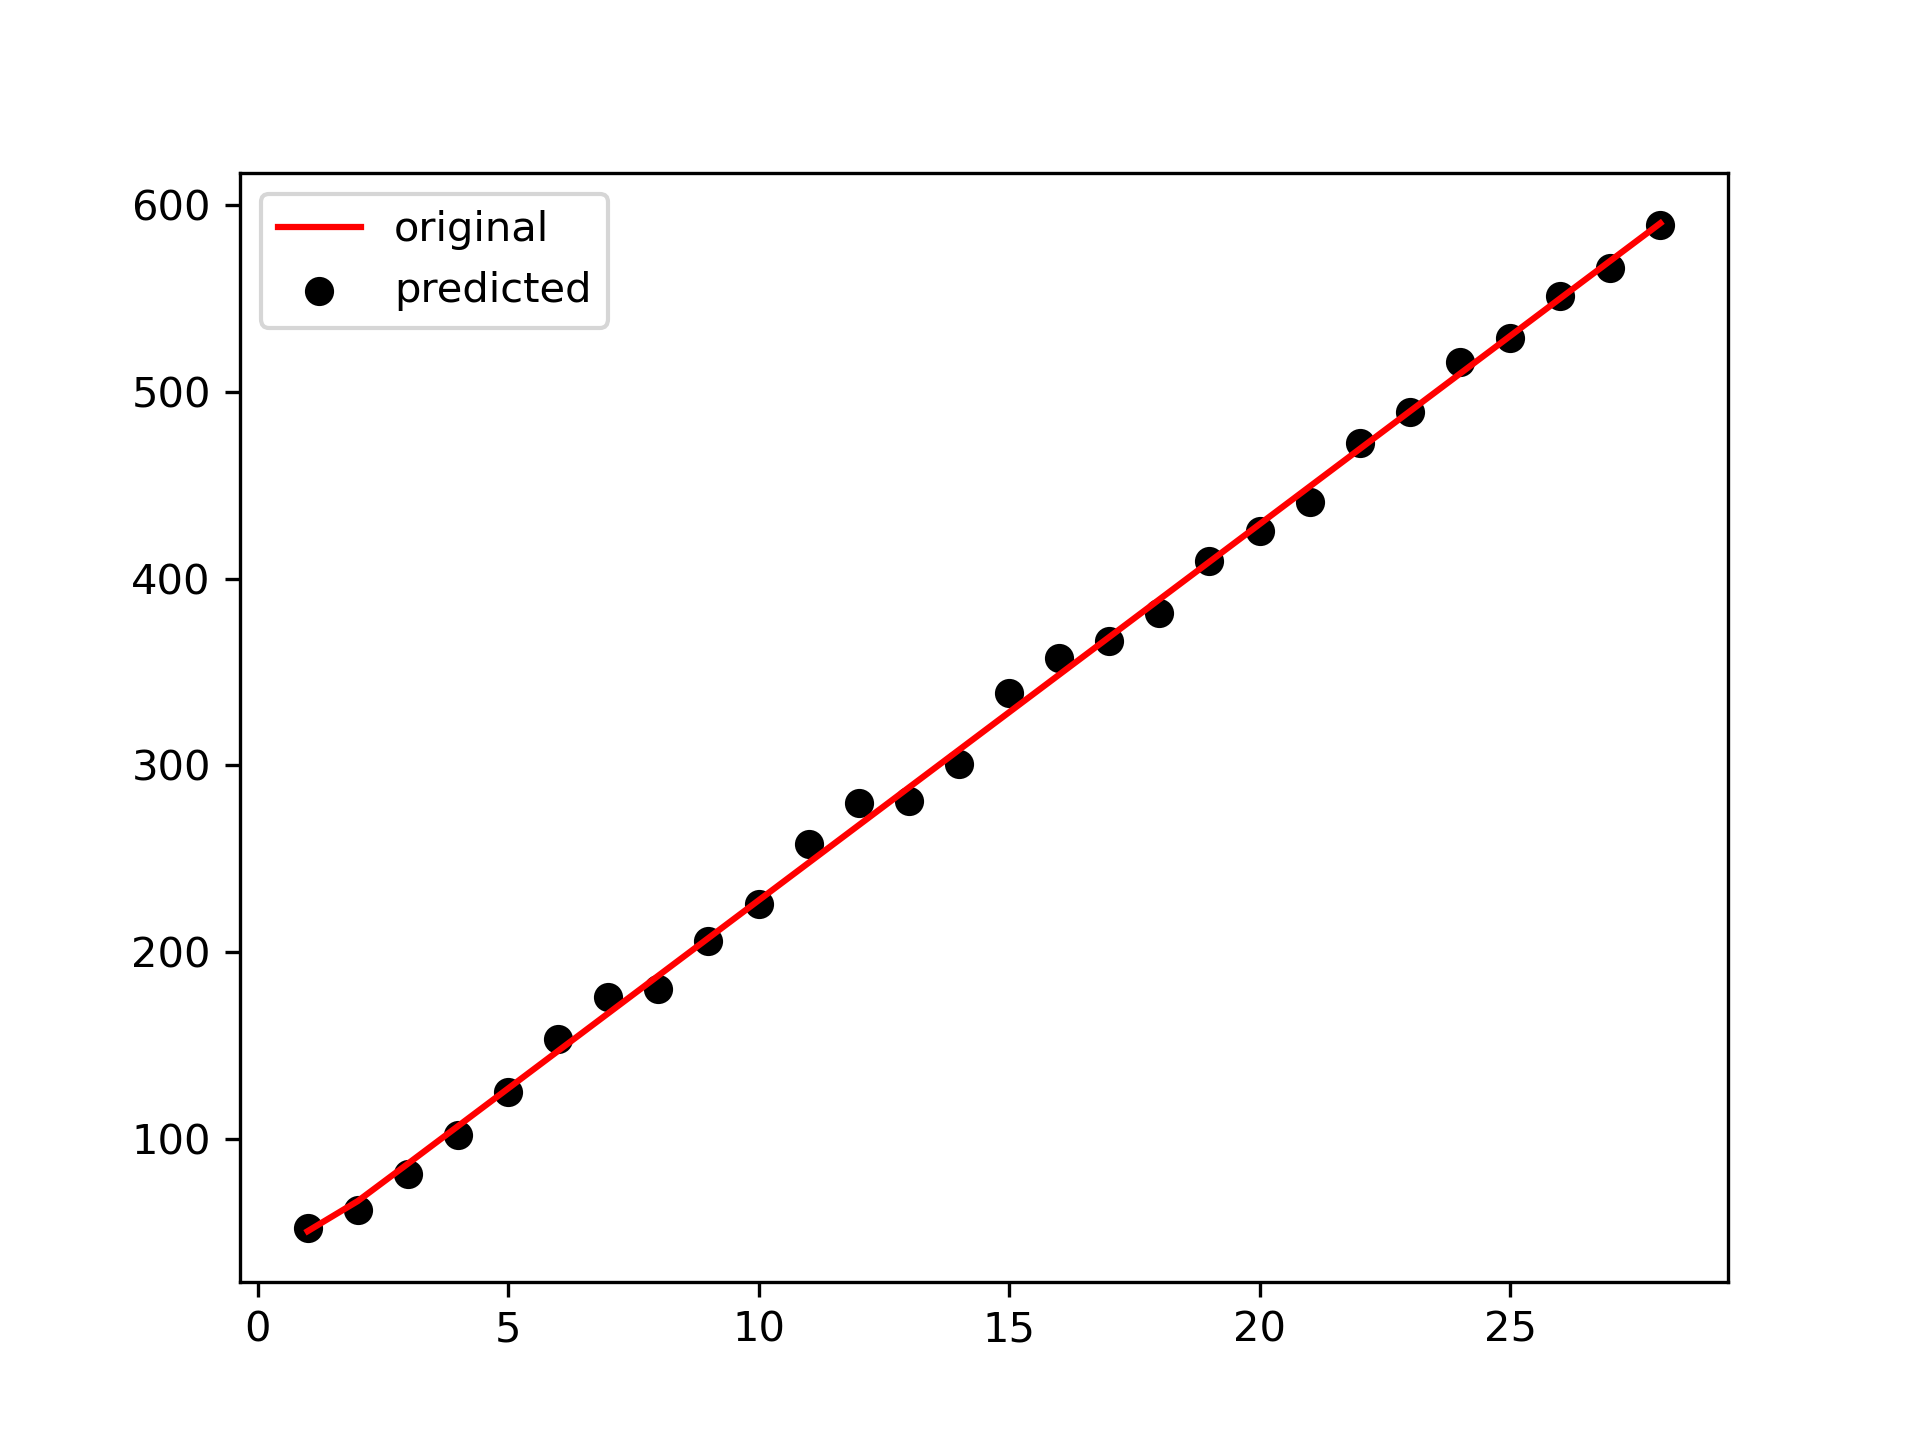
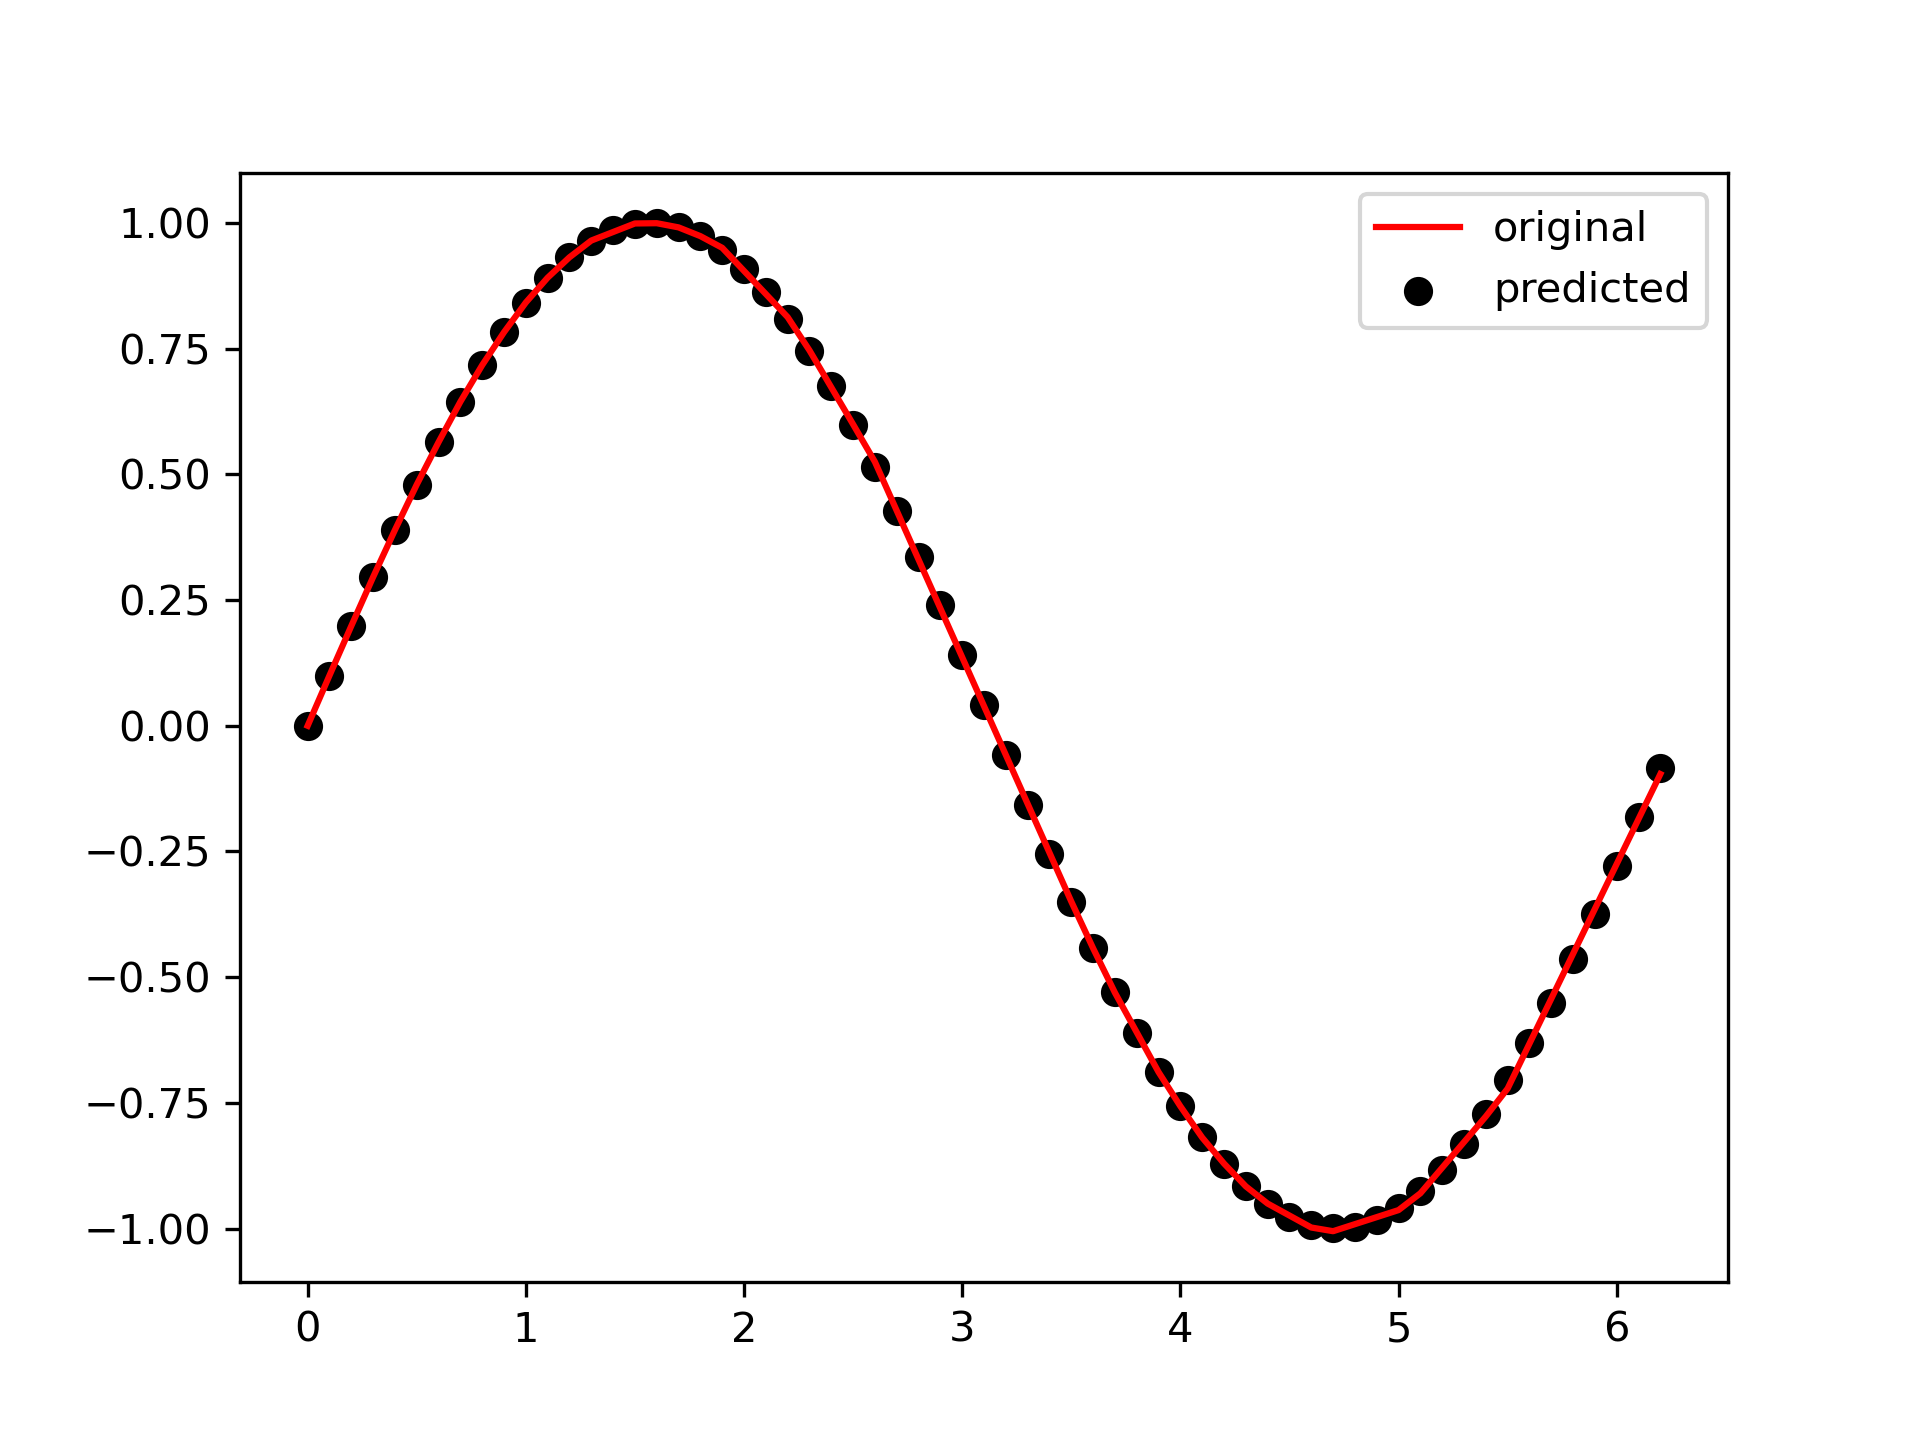
通过梯度下降实现了MLP优化
通过梯度下降实现了MLP优化，但是未效果不好

diff --git a/多层感知机自己实现.py b/多层感知机自己实现.py
@@ -2,6 +2,27 @@ import numpy as np
 import matplotlib.pyplot as plt
 
 
+def sigmoid(X):
+    '''
+    sigmoid 激活函数
+    :param X: 输入
+    :return:  输出
+    '''
+
+    return 1/(1+np.exp(-X))
+
+
+def tanh(X):
+    '''
+    tanh 激活函数
+    :param X: 输入
+    :return:  输出
+    '''
+
+    return np.tanh(X)
+
+
+
 def relu(X):
     '''
     relu 激活函数
@@ -10,6 +31,28 @@ def relu(X):
     '''
     a = np.copy(X)
     a[np.where(a<=0)] = 0
+    return a
+
+
+def leaky_relu(X, r=0.01):
+    '''
+    LeakyRelu激活函数
+    :param X: 输入
+    :return:  输出
+    '''
+    a = np.copy(X)
+    a[np.where(a<=0)] *= r
+    return a
+
+
+def e_relu(X, r=0.01):
+    '''
+    LeakyRelu激活函数
+    :param X: 输入
+    :return:  输出
+    '''
+    a = np.copy(X)
+    a[np.where(a<=0)] = r*(np.exp(a[np.where(a<=0)])-1)
     return a
 
 
@@ -34,20 +77,117 @@ class MLP():
         self.activation_function = relu # 定义激活函数
 
     def forward(self, X):
-        X = np.reshape(X,(1, self.num_input))
+        X = np.reshape(X,(-1, self.num_input))
         H = self.activation_function(np.dot(X, self.W1)+self.b1)
         return np.dot(H, self.W2)+self.b2 # 返回这个值
 
 
-if __name__ == '__main__':
-    num_input = 10
-    num_hidden = 20
-    num_output = 1
-    X = np.ones(shape=(1, num_input))
-    model = MLP(num_input, num_hidden, num_output)
-    print(f"开始的X:\n{X}")
-    print(f"经过MLP前向传播的X:\n{model.forward(X)}")
+    def predict(self, X, theta):
+        '''
 
+        Parameters
+        ----------
+        X:输入值
+        Returns
+        -------
+        输入推理值
+        '''
+
+        H = self.activation_function(np.dot(X, theta[0])+theta[1])#np.array([self.W1, self.b1, self.W2, self.b2])
+        return np.dot(H, theta[2])+theta[3]
+
+
+    def loss_function(self, y, y_predict):# real signature unknown; restored from __doc__
+        '''
+
+        Parameters
+        ----------
+        y:监督值
+        y_predict:预测/推理值
+
+        Returns
+        -------
+        返回两者的误差,这里采用的MSE误差
+        '''
+        return np.sum(np.square(y-y_predict))/len(y)
+
+
+    def get_gradient(self,  X, y, delta=0.01):
+        '''
+
+        Parameters
+        ----------
+        X:输入值
+        y:监督值
+        y_predict:预测/推理值
+        delta:步长
+
+        Returns
+        -------
+        返回梯度
+        '''
+
+        theta = np.array([self.W1, self.b1, self.W2, self.b2])
+        delta_theta = np.ones_like(theta)*delta  # 获得形状如X的值
+        step_before = self.loss_function(y, self.predict(X, theta+delta_theta))
+        step_after = self.loss_function(y, self.predict(X, theta-delta_theta))  # 获得差分的分子
+        return (step_before-step_after)/(2*delta_theta)  # 这里存在问题是不是应该取
+
+
+
+    def sgd(self, X, y, lr=0.0001):
+        '''
+        用于做SGD优化的权重以及偏置参数即为__init__
+        里面的参数
+        Parameters
+        ----------
+        X: 输入参数
+        y: 监督值
+        lr: 学习率
+        Returns
+        -------
+        无返回值，仅仅优化权重以及偏置参数
+        '''
+
+        gradient = self.get_gradient(X, y)
+        self.W1 -= gradient[0]*lr
+        self.b1 -= gradient[1]*lr
+        self.W2 -= gradient[2]*lr
+        self.b2 -= gradient[3]*lr
+    def train(self):
+        pass
+
+
+
+
+
+
+if __name__ == '__main__':
+    num_input = 1
+    num_hidden = 128
+    num_output = 1
+    X = np.arange(0, 2*np.pi, 0.1).reshape((-1, num_input))
+    y = np.sin(X)*20
+    model = MLP(num_input, num_hidden, num_output)
+    epoch = 10000 # 设置100次训练
+    for i in range(1,epoch+1):
+        model.sgd(X,y)
+        if i%1000==0:
+            print(f"第{i}次训练")
+            print(f"训练误差{model.loss_function(y,model.forward(X))}")
+            plt.figure()
+            plt.scatter(X, y, color="black")
+            plt.plot(X, model.forward(X), color="red")
+            plt.title("MLP fits sin by hands")
+            plt.legend(["original", "predicted"])
+    #print(f"开始的X:\n{X}")
+    #print(f"经过MLP前向传播的X:\n{model.forward(X)}")
+    plt.scatter(X, y, color="black")
+    plt.plot(X, model.forward(X), color="red")
+    plt.title("MLP fits sin by hands")
+    plt.legend(["original","predicted"])
+    plt.savefig("手动实现_MLP.png",dpi=300)
+    plt.show()
 
 
 

diff --git a/梯度下降.py b/梯度下降.py
@@ -1,0 +1,97 @@
+import numpy as np
+import matplotlib.pyplot as plt
+from mpl_toolkits.mplot3d import axes3d
+from matplotlib import style
+
+
+# 构造数据
+def get_data(sample_num=10000):
+    """
+    拟合函数为
+    y = 5*x1 + 7*x2
+    :return:
+    """
+    x1 = np.linspace(0, 9, sample_num)
+    x2 = np.linspace(4, 13, sample_num)
+    x = np.concatenate(([x1], [x2]), axis=0).T
+    y = np.dot(x, np.array([5, 7]).T)
+    return x, y
+
+
+# 梯度下降法
+def GD(samples, y, step_size=0.01, max_iter_count=100):
+    """
+    :param samples: 样本
+    :param y: 结果value
+    :param step_size: 每一接迭代的步长
+    :param max_iter_count: 最大的迭代次数
+    :param batch_size: 随机选取的相对于总样本的大小
+    :return:
+    """
+    # 确定样本数量以及变量的个数初始化theta值
+    m, var = samples.shape
+    theta = np.zeros(2)
+    y = y.flatten()
+    # 进入循环内
+    print(samples)
+    loss = 1
+    iter_count = 0
+    iter_list = []
+    loss_list = []
+    theta1 = []
+    theta2 = []
+    # 当损失精度大于0.01且迭代此时小于最大迭代次数时，进行
+    while loss > 0.01 and iter_count < max_iter_count:
+        loss = 0
+        # 梯度计算
+        theta1.append(theta[0])
+        theta2.append(theta[1])
+        for i in range(m):
+            h = np.dot(theta, samples[i].T)
+            # 更新theta的值,需要的参量有：步长，梯度
+            for j in range(len(theta)):
+                theta[j] = theta[j] - step_size * (1 / m) * (h - y[i]) * samples[i, j]
+        # 计算总体的损失精度，等于各个样本损失精度之和
+        for i in range(m):
+            h = np.dot(theta.T, samples[i])
+            # 每组样本点损失的精度
+            every_loss = (1 / (var * m)) * np.power((h - y[i]), 2)
+            loss = loss + every_loss
+
+        print("iter_count: ", iter_count, "the loss:", loss)
+
+        iter_list.append(iter_count)
+        loss_list.append(loss)
+
+        iter_count += 1
+    plt.plot(iter_list, loss_list)
+    plt.xlabel("iter")
+    plt.ylabel("loss")
+    plt.show()
+    return np.array(theta1), np.array(theta2), np.array(theta), np.array(loss_list)
+
+
+def painter3D(theta1, theta2, loss):
+    style.use('ggplot')
+    fig = plt.figure()
+    ax1 = fig.add_subplot(111, projection='3d')
+    x, y, z = theta1, theta2, loss
+    ax1.plot_wireframe(x.reshape(-1,1), y.reshape(-1,1), z.reshape(-1,1), rstride=5, cstride=5)
+    ax1.set_xlabel("theta1")
+    ax1.set_ylabel("theta2")
+    ax1.set_zlabel("loss")
+    plt.show()
+
+
+def predict(x, theta):
+    y = np.dot(theta, x.T)
+    return y
+
+
+if __name__ == '__main__':
+    samples, y = get_data()
+    theta1, theta2, theta, loss_list = GD(samples, y)
+    print(theta)  # 会很接近[5, 7]
+    painter3D(theta1, theta2, loss_list)
+    predict_y = predict(theta, [7, 8])
+    print(predict_y)

diff --git a/多层感知机使用pytorch实现.py b/多层感知机使用pytorch实现.py
@@ -1,3 +1,4 @@
+import numpy as np
 import torch
 from torch import nn
 import  matplotlib.pyplot as plt
@@ -6,9 +7,9 @@ class MLP(nn.Module):
         super(MLP, self).__init__()
         self.module = nn.Sequential(
                         nn.Flatten(),
-                        nn.Linear(1, 512),
+                        nn.Linear(1, 128),
                         nn.ReLU(),
-                        nn.Linear(512, 1))
+                        nn.Linear(128, 1))
 
     def forward(self, x):
         x = self.module(x)
@@ -21,12 +22,13 @@ plt.figure()
 
 # 这里实现一个线性回归
 net = MLP()
-x = torch.reshape(torch.range(1, 28), (28, 1))
-y = 20*x+20+torch.rand(size=(28, 1))*20
-epoch = 10000  # 十次训练次数
+x = torch.arange(0, 2*np.pi, 0.1).reshape(-1, 1)
+y = torch.sin(x)#+20+torch.rand(size=(28, 1))*20
+epoch = 20000  # 十次训练次数
 lr = 0.0001  # 学习率
 optimzer = torch.optim.Adam((net.parameters()),lr=lr)#SGD(net.parameters(),lr=lr)  #设置优化器
 loss_function = nn.MSELoss()
+
 for i in range(1,epoch+1):
 
     output = net(x)
@@ -40,11 +42,11 @@ for i in range(1,epoch+1):
 
 torch.save(net.state_dict(),"线性回归.pth")
 
-
 with torch.no_grad():
     plt.scatter(x, y, color="black")
     plt.plot(x, net(x), color="red")
+    plt.title("pytorch MLP fits sin ")
     plt.legend(["original","predicted"])
-    plt.savefig("多层感知机线性回归.png",dpi=300)
+    plt.savefig("pytorch_MLP实现.png",dpi=300)
     plt.show()
 
